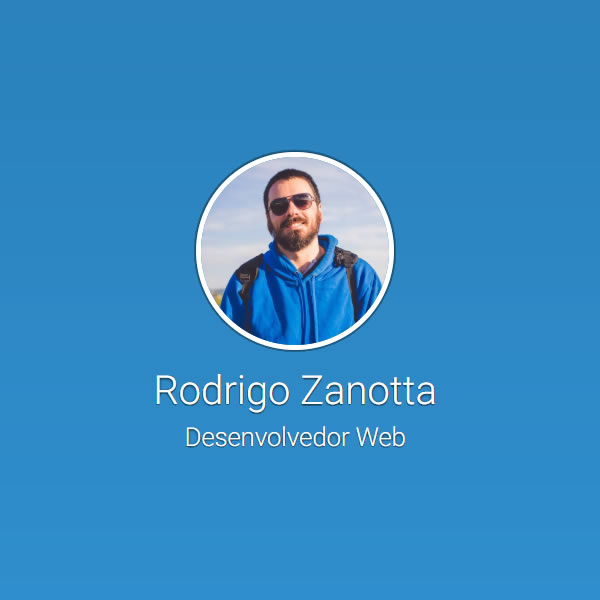
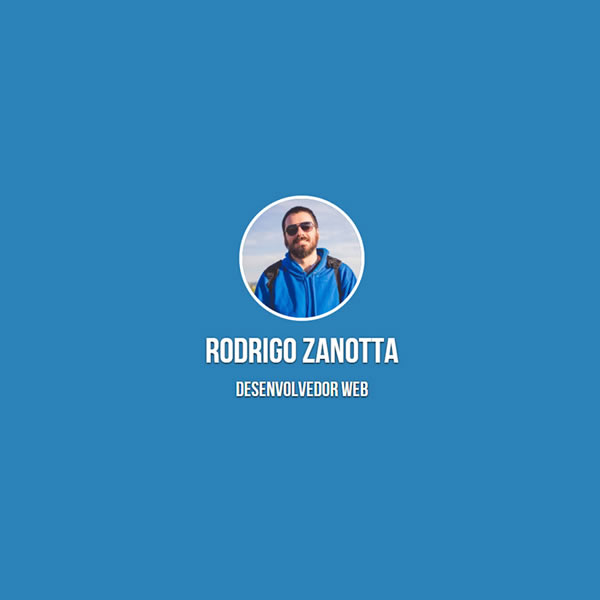
Ajustes de design

Changed region(s): [[0.24, 0.24, 0.75, 0.75]]

diff --git a/public/index.html b/public/index.html
@@ -5,6 +5,7 @@
 		<link rel="shortcut icon" href="%PUBLIC_URL%/favicon.png" />
 		<meta name="viewport" content="width=device-width, initial-scale=1" />
 		<meta name="theme-color" content="#000000" />
+		<meta name="description" content="Criação de sites, sistemas e aplicativos" />
 		<!--
 			manifest.json provides metadata used when your web app is installed on a
 			user's mobile device or desktop. See https://developers.google.com/web/fundamentals/web-app-manifest/
@@ -24,6 +25,18 @@
 		<link rel="stylesheet" href="https://stackpath.bootstrapcdn.com/bootstrap/4.3.1/css/bootstrap.min.css" integrity="sha384-ggOyR0iXCbMQv3Xipma34MD+dH/1fQ784/j6cY/iJTQUOhcWr7x9JvoRxT2MZw1T" crossorigin="anonymous">
 		<link href="https://fonts.googleapis.com/css?family=Roboto:300&display=swap" rel="stylesheet">
 		<link rel="stylesheet" href="https://use.fontawesome.com/releases/v5.8.2/css/all.css" integrity="sha384-oS3vJWv+0UjzBfQzYUhtDYW+Pj2yciDJxpsK1OYPAYjqT085Qq/1cq5FLXAZQ7Ay" crossorigin="anonymous">
+		<!-- FACEBOOK:TAGS -->
+		<meta property="og:title" content="Rodrigo Zanotta" />
+		<meta property="og:image" content="ogimage.jpg" />
+		<meta property="og:site_name" content="Rodrigo Zanotta" />
+		<meta property="og:description" content="Desenvolvedor Web" />
+		<meta property="og:url" content="https://rodrigozanotta.com.br/" />
+		<!-- TWITTER:TAGS -->
+		<meta name="twitter:card" content="summary">
+		<meta name="twitter:title" content="Rodrigo Zanotta">
+		<meta name="twitter:description" content="Desenvolvedor Web">
+		<meta name="twitter:image" content="ogimage.jpg">
+		<meta name="twitter:url" content="https://rodrigozanotta.com.br/">
 	</head>
 	<body>
 	<noscript>You need to enable JavaScript to run this app.</noscript>

diff --git a/src/Social.js b/src/Social.js
@@ -8,23 +8,23 @@ function Social() {
 		<div className="row mt-5">
 
 			<div className="text-center mx-auto">
-				<a href="https://github.com/zanotta" rel="noopener noreferrer" className="ml-3 mr-4" target="_blank">
+				<a href="https://github.com/zanotta" rel="noopener noreferrer" className="ml-3 mr-3" target="_blank" title="GitHub">
 					<i className="fab fa-github fa-3x"></i>
 				</a>
 			
-				<a href="https://github.com/zanotta" rel="noopener noreferrer" className="mr-4" target="_blank">
+				<a href="https://facebook.com/rodrigozanotta" rel="noopener noreferrer" className="mr-3" target="_blank" title="Facebook">
 					<i className="fab fa-facebook fa-3x"></i>
 				</a>
 			
-				<a href="https://github.com/zanotta" rel="noopener noreferrer" className="mr-4" target="_blank">
+				<a href="https://twitter.com/zanottaa" rel="noopener noreferrer" className="mr-3" target="_blank" title="Twitter">
 					<i className="fab fa-twitter fa-3x"></i>
 				</a>
 			
-				<a href="https://github.com/zanotta" rel="noopener noreferrer" className="mr-4" target="_blank">
+				<a href="https://instagram.com/zanottaa" rel="noopener noreferrer" className="mr-3" target="_blank" title="Instagram">
 					<i className="fab fa-instagram fa-3x"></i>
 				</a>
 			
-				<a href="https://github.com/zanotta" rel="noopener noreferrer" className="mr-4" target="_blank">
+				<a href="https://www.linkedin.com/in/rodrigozanotta" rel="noopener noreferrer" className="mr-3" target="_blank" title="Linkedin">
 					<i className="fab fa-linkedin fa-3x"></i>
 				</a>
 			</div>

diff --git a/src/App.css b/src/App.css
@@ -3,11 +3,6 @@
 	to {background-color: #2980b9;}
 }
 
-@keyframes me {
-	from {box-shadow: 0 0 5px #000;}
-	to {box-shadow: 0 0 30px #000;}
-}
-
 @font-face {
     font-family: 'BebasNeueRegular';
     src: url('fonts/BebasNeue-webfont.eot');
@@ -39,10 +34,7 @@ a {
 .me {
 	border-radius: 50%;
 	border: 5px solid #FFF;
-	animation-name: me;
-  	animation-duration: 1s;
-  	animation-iteration-count: infinite;
-  	animation-direction: alternate-reverse;
+	box-shadow: 0 0 5px #000;
 }
 h1, h2 {
 	font-weight: normal;

diff --git a/src/Photo.js b/src/Photo.js
@@ -7,7 +7,7 @@ function Photo() {
 
 	return (
 		<div className="row">
-			<div className="col-6 col-lg-2 offset-lg-5 offset-3 mt-5">
+			<div className="col-6 col-lg-2 offset-lg-5 offset-3 col-md-4 offset-md-4 mt-5">
 				<img src={imgPath} className="img-fluid me" alt="Rodrigo Zanotta" />
 			</div>
 		</div>

diff --git a/src/Presentation.js b/src/Presentation.js
@@ -7,7 +7,7 @@ function Presentation() {
 	return (
 		<React.Fragment>
 			<h1 className="text-center mt-3">Rodrigo Zanotta</h1>
-			<h2 className="text-center mt-1 mb-5">Desenvolvedor Web</h2>
+			<h2 className="text-center mb-5">Desenvolvedor Web</h2>
 		</React.Fragment>
 	);
 }
